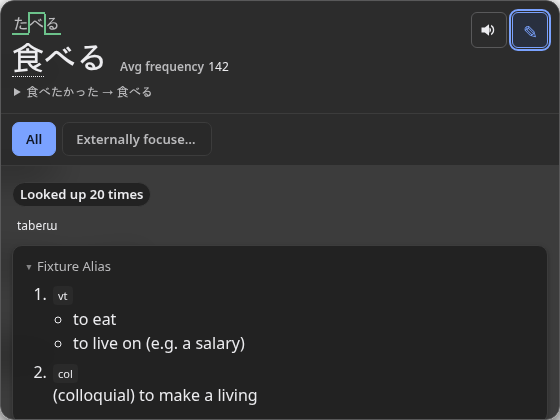
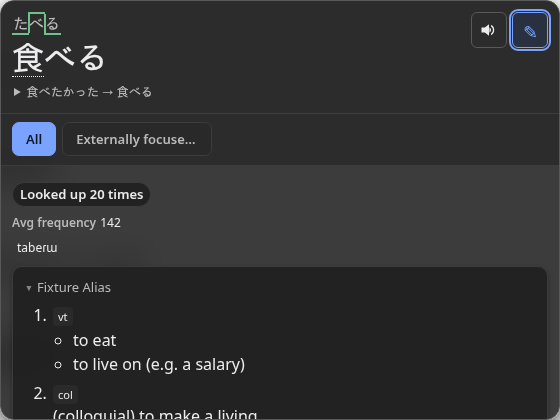
fix: place popup frequency in result

diff --git a/extension/render/popup.js b/extension/render/popup.js
@@ -2707,7 +2707,6 @@
           DEFAULT_COMPACT_DEFINITION_SUMMARY_COUNT,
         compactDefinitionSummaryDictionary = null,
         summaryMedia = null,
-        inlineMetadata = null,
         showPitchAccentFurigana = true,
         pitchAccentFuriganaDictionary = null,
         onBack = null,
@@ -2754,9 +2753,6 @@
       if (showCompactDefinitionSummary === true) {
         updateCompactSummary(headword, result, { showCompactDefinitionSummary,
           compactDefinitionSummaryCount, compactDefinitionSummaryDictionary }, summaryMedia);
-      }
-      if (inlineMetadata) {
-        headword.appendChild(inlineMetadata);
       }
       const deinflection = buildDeinflectionDisclosure(documentRef, result, windowRef.navigator.language);
       if (deinflection) {
@@ -2920,7 +2916,6 @@
               ? renderContext.compactDefinitionSummaryDictionary
               : null,
           summaryMedia,
-          inlineMetadata: resultIndex === 0 ? primaryMetadataCapsule : null,
           showPitchAccentFurigana:
             renderContext.showPitchAccentFurigana !== false,
           pitchAccentFuriganaDictionary:
@@ -2958,6 +2953,7 @@
             renderContext.averageFrequency === true,
             renderContext.showFrequencyDictionaryNames === true
           );
+          entry.appendChild(primaryMetadataCapsule);
         }
 
         const metadata = appendMetadata(

diff --git a/extension/render/reader.css b/extension/render/reader.css
@@ -1311,13 +1311,12 @@ html[data-hoshidicts-theme="girlypop"],
 }
 
 .gsm-hoshidicts-primary-metadata-capsule {
-  display: inline-flex;
-  flex: 0 1 auto;
+  display: flex;
   flex-wrap: wrap;
-  align-self: flex-end;
   align-items: baseline;
+  width: fit-content;
   max-width: 100%;
-  margin-block: 0 3px;
+  margin: 7px 0 2px;
   color: var(--text-color-light1);
   font-size: 12px;
   line-height: 1.45;

diff --git a/docs/architecture.md b/docs/architecture.md
@@ -587,10 +587,12 @@ Design has independent controls for frequency source names and averages, pitch
 contour and its preferred dictionary, pitch badges, and grammar tags. Frequency
 metadata defaults to compact numbers without dictionary names, with source and
 kana-frequency detail available on hover and to screen readers. It sits as quiet,
-borderless text beside or beneath the headword instead of claiming a separate
-row. The lower chrome row is reserved for dictionary tabs and is omitted when no
-tabs exist. Grammar tags default to hidden; opting in places them in the same
-inline metadata group. Explicit saved display choices are preserved.
+borderless text inside the primary result, before its pronunciation metadata and
+definition cards, instead of occupying the popup-wide headword header or claiming
+a separate chrome row. The lower chrome row is reserved for dictionary tabs and
+is omitted when no tabs exist. Grammar tags default to hidden; opting in places
+them in the same result metadata group. Explicit saved display choices are
+preserved.
 Contour and pitch badges remain on, and averages remain off. IPA transcriptions
 and definition tags remain visible independently. Pitch and IPA show pronunciation
 data without source-name labels; tooltips and accessibility labels retain source
@@ -621,7 +623,7 @@ A focused kanji button defers ruby replacement until blur. The shared visual
 context carries current preferences through deferred group changes, local tabs
 and Show more; an unchanged delivery performs no metadata rebuild.
 
-![Inline typed frequency average beside the headword, above dictionary tabs](assets/metadata-popup.png)
+![Typed frequency average inside the primary result](assets/metadata-popup.png)
 
 ## Lookup statistics and definition blur
 

diff --git a/test/README.md b/test/README.md
@@ -9,7 +9,7 @@ the same external jsdom dependency described below. The toolbar tests do not
 start a capture session.
 
 `node --test test/frequency-presentation.test.mjs` checks compact numeric
-frequency defaults, borderless headword placement, tabs-only lower chrome,
+frequency defaults, borderless primary-result placement, tabs-only lower chrome,
 concise typed harmonic averages, preserved explicit display choices, source and
 kana details, and live grammar/name controls without replacing definitions or
 Note drafts. It uses the same external jsdom dependency.
